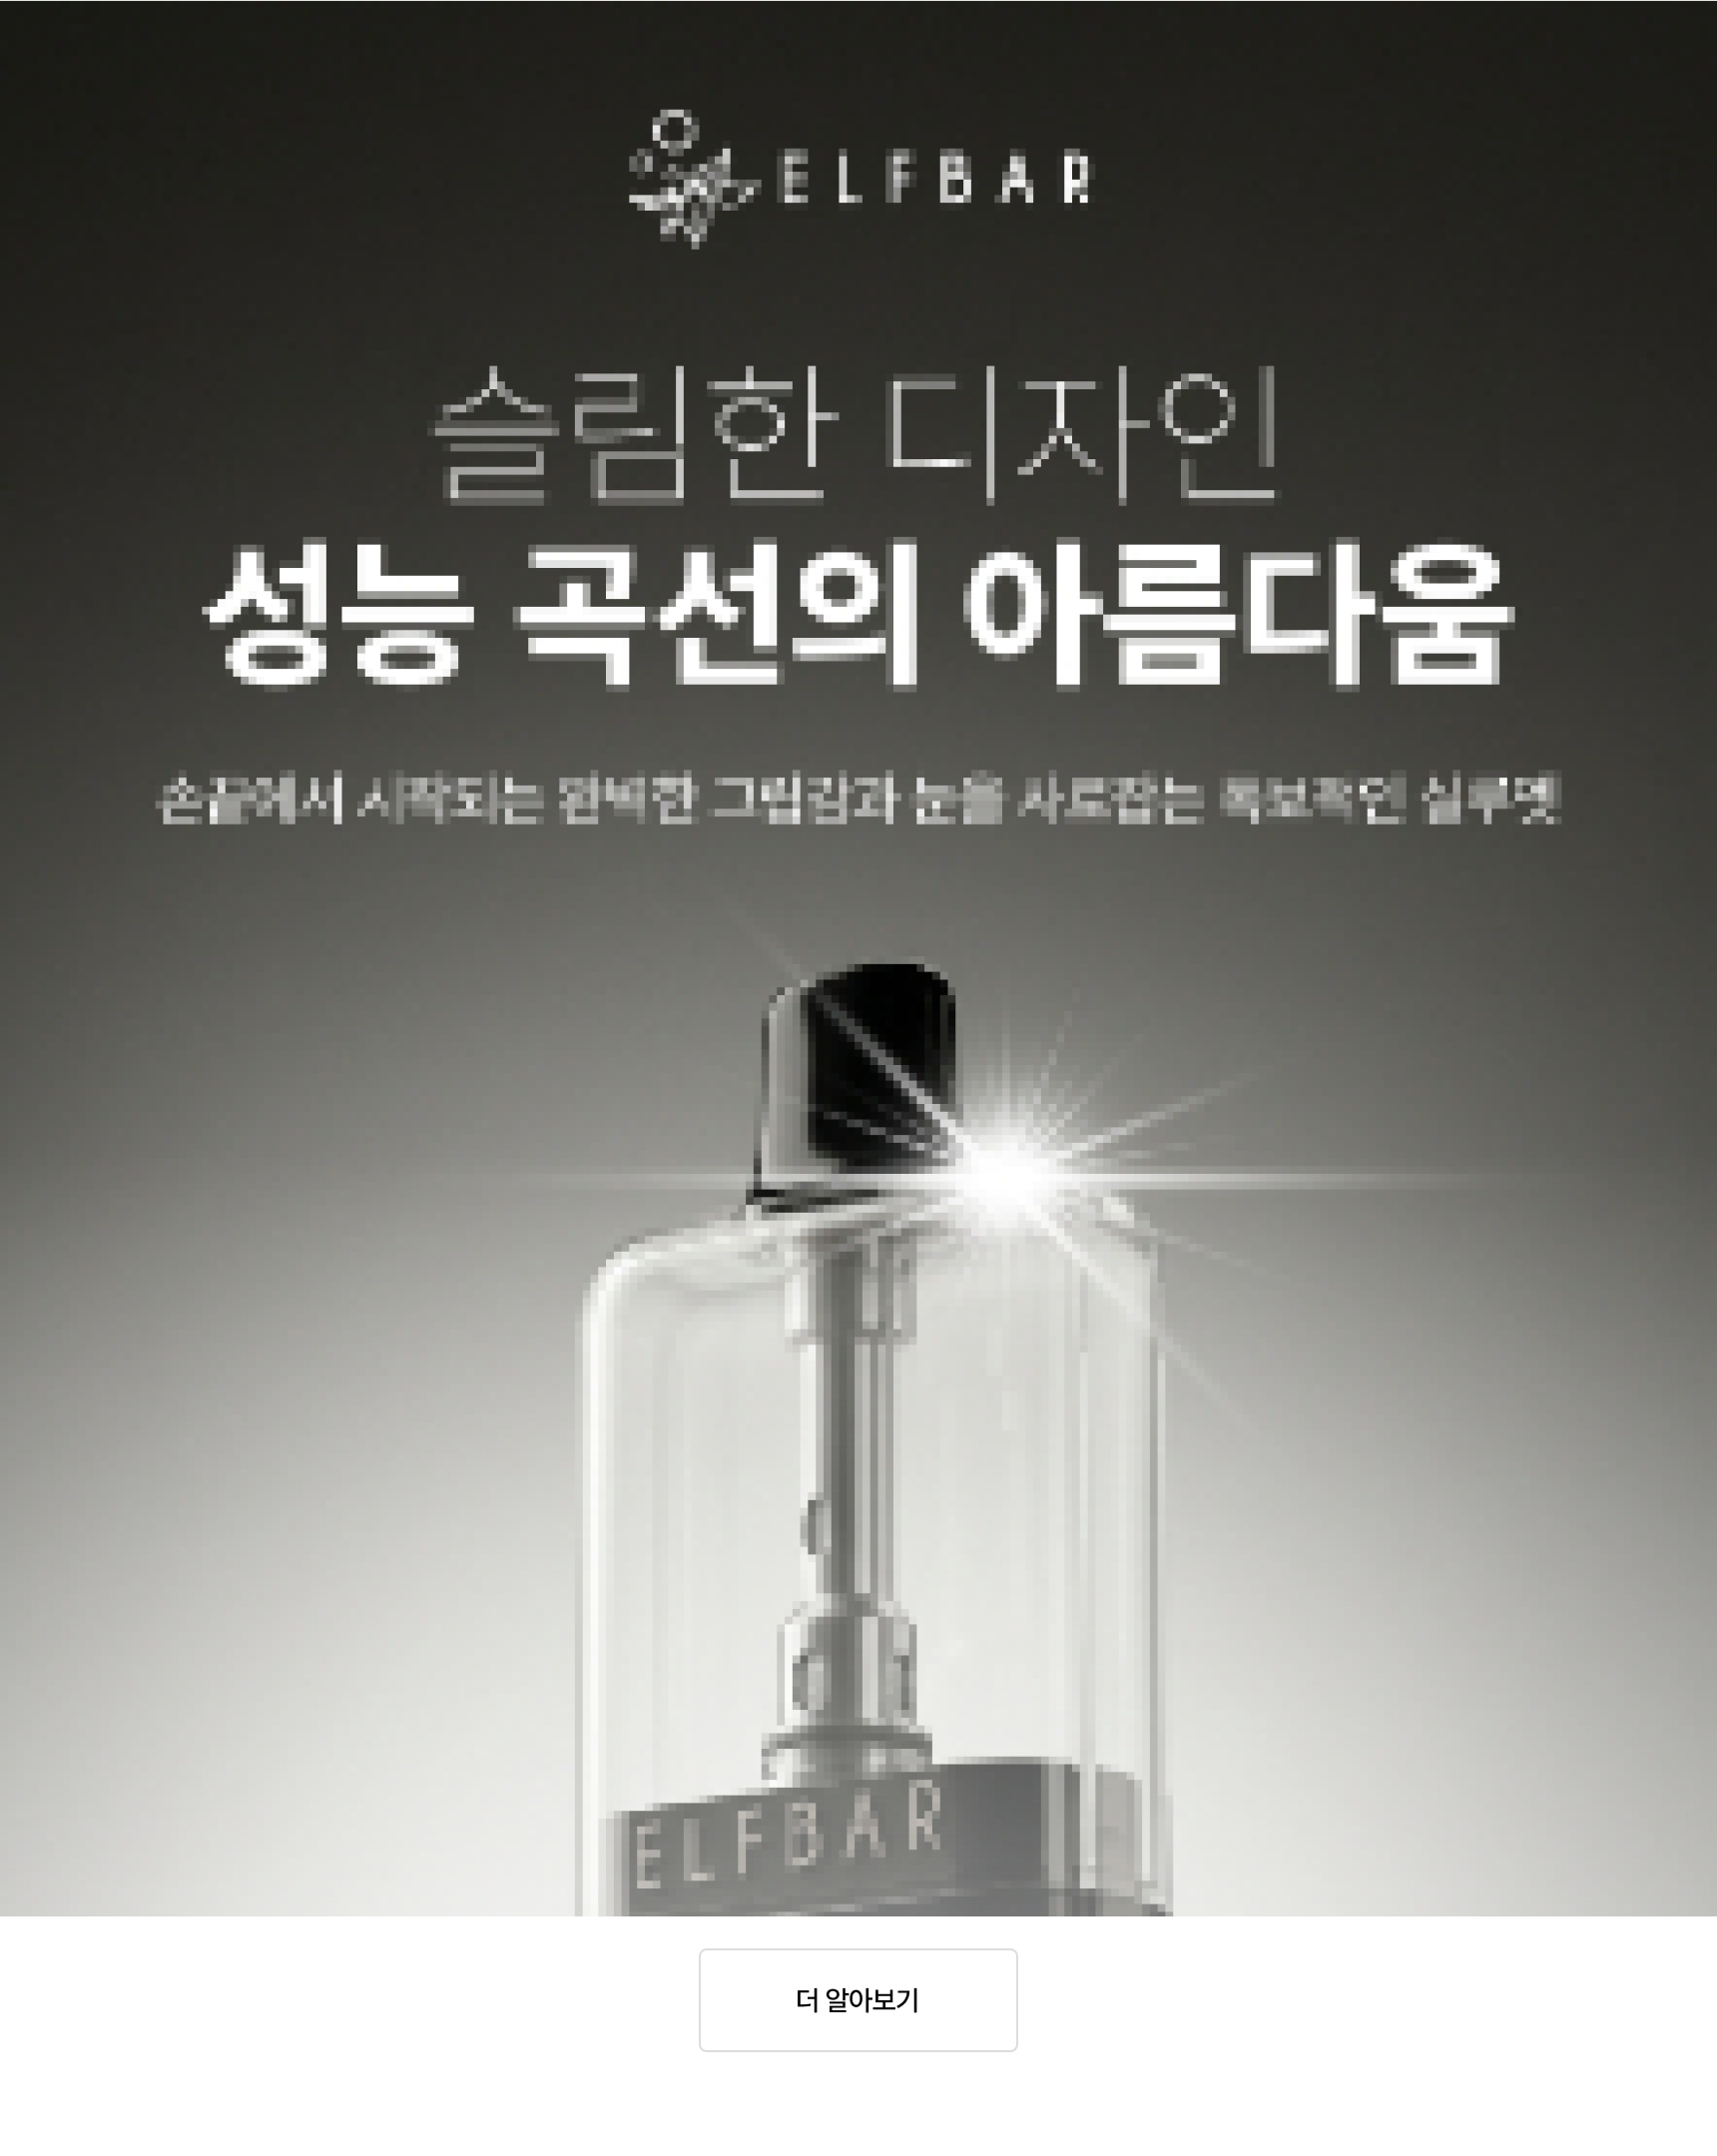
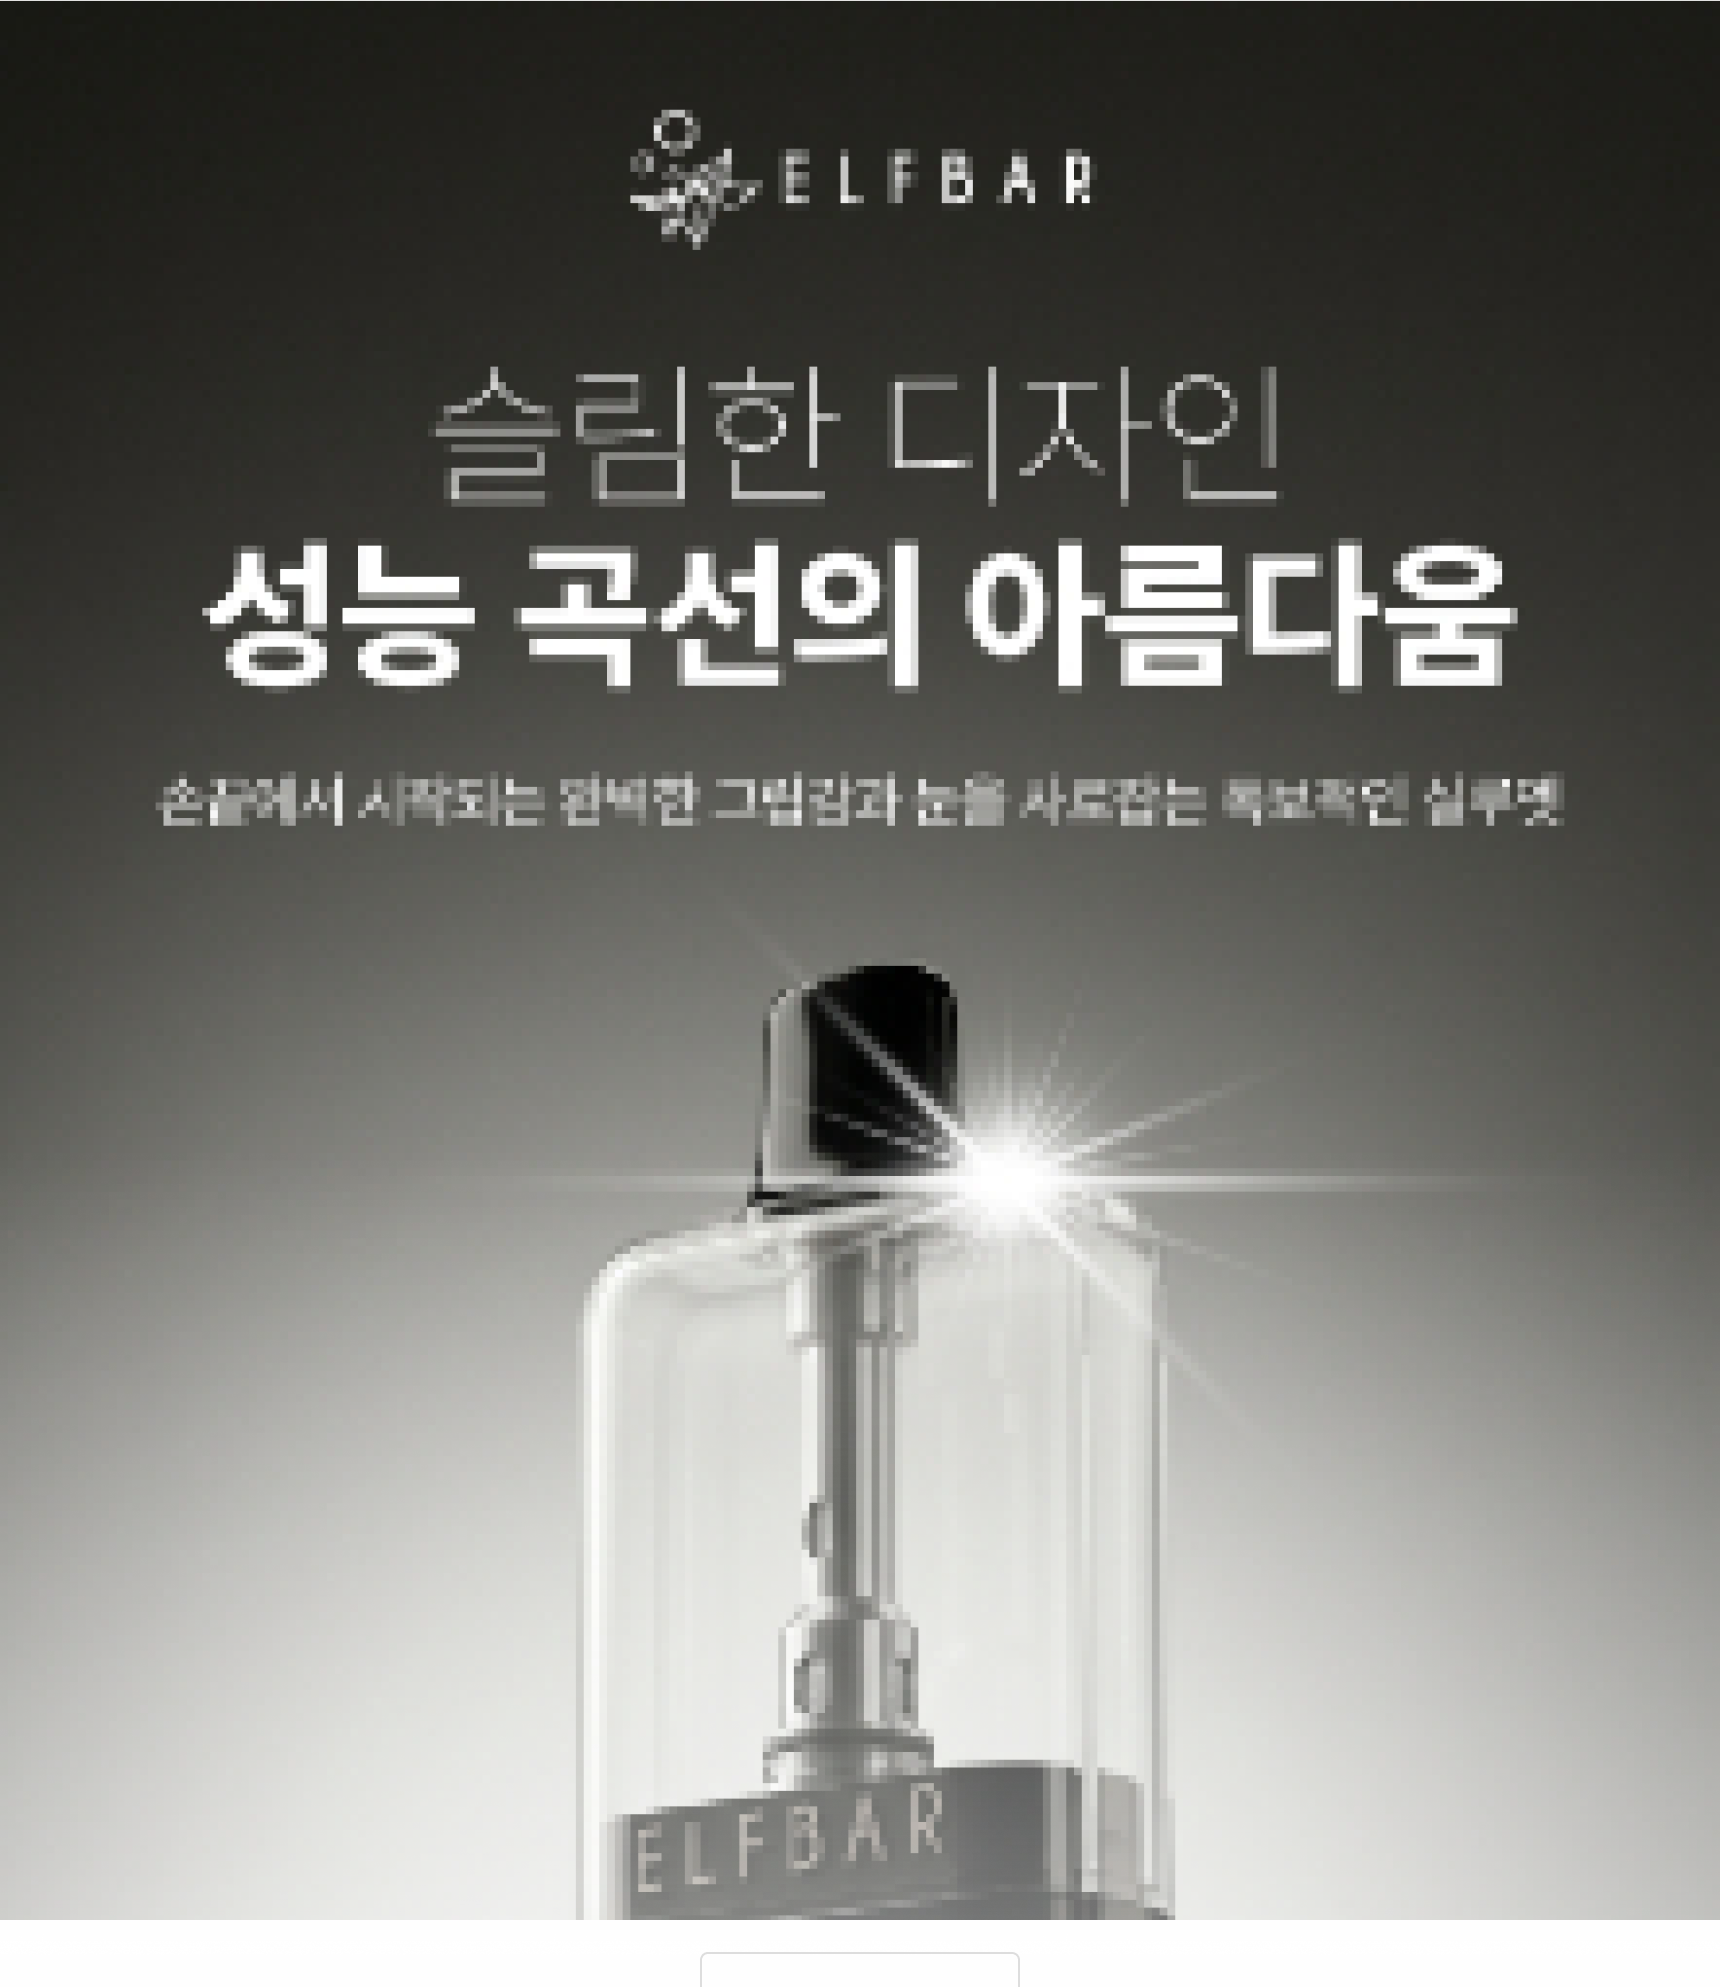
feat: 상품상세 URL 정식화 + DUKE 상세 통이미지 + 상세 탭/접기 + 랭킹 썸네일
- URL: /p/{id} → /products/{series}/{n} (백엔드 detail id-or-slug 처리, ProductDetailView 공통화,
  productHref 헬퍼 + 전 사이트 링크 교체, 구 /p/{id} 는 호환 유지)
- DUKE 상세: Figma 시안(277-12516) 통이미지 한 장 + 더알아보기 접기 (전 DUKE 상품 공통)
- 상세 탭: 제품리뷰 (N) 리뷰수 표시. 상세이미지 960 접기 + 하단 페이드 + 더알아보기 (DUKE 검정 페이드)
- 랭킹 썸네일: 높이 고정·너비 자동 (세로 긴 제품 좌우 여백 제거)
- 정리: 링크 안 되던 고아 SeriesPage 라우트 3개 + SeriesPage 컴포넌트 제거

Changed region(s): [[0.0, 0.156, 1.0, 0.9673], [0.3698, 0.0312, 0.6471, 0.1248]]

diff --git a/src/components/DetailExpand.tsx b/src/components/DetailExpand.tsx
@@ -1,0 +1,57 @@
+"use client";
+
+import { useEffect, useRef, useState } from "react";
+
+/**
+ * DetailExpand — 상세이미지 접기/펼치기 (시안: 이미지 + 하단 페이드 + "더 알아보기").
+ *   접힘: 960px 까지만 노출 + 하단 페이드. 펼침: 전체(실측 높이) + 버튼 "접기".
+ *   dark=true → 검정 배경 상세이미지(DUKE 통이미지)용 검정 페이드.
+ *   버튼 시안: 가운데 · 160 · padding 16 · r4 · #DDD 보더 · 14/500.
+ */
+export function DetailExpand({ src, alt, dark = false }: { src: string; alt: string; dark?: boolean }) {
+    const [open, setOpen] = useState(false);
+    const [fullH, setFullH] = useState(0);
+    const innerRef = useRef<HTMLDivElement>(null);
+
+    // 이미지 로드/리사이즈에 따라 전체 높이 실측 → 펼칠 때 정확한 max-height 애니메이션.
+    useEffect(() => {
+        const el = innerRef.current;
+        if (!el) return;
+        const measure = () => setFullH(el.scrollHeight);
+        measure();
+        const ro = new ResizeObserver(measure);
+        ro.observe(el);
+        return () => ro.disconnect();
+    }, []);
+
+    const COLLAPSED = 960;
+
+    return (
+        <div className="mx-auto max-w-[860px]">
+            <div
+                className="relative overflow-hidden rounded-[16px] transition-[max-height] duration-500 ease-in-out"
+                style={{ maxHeight: open ? (fullH || 99999) : COLLAPSED }}
+            >
+                <div ref={innerRef}>
+                    {/* eslint-disable-next-line @next/next/no-img-element */}
+                    <img src={src} alt={alt} className="block h-auto w-full" />
+                </div>
+                {/* 접힘 시 하단 페이드 (시안 흰→투명 / DUKE 검정 이미지는 검정 페이드) */}
+                {!open && (
+                    <div className={`pointer-events-none absolute inset-x-0 bottom-0 h-48 bg-gradient-to-t to-transparent ${dark ? "from-black via-black/70" : "from-white via-white/70"}`} />
+                )}
+            </div>
+
+            <div className="mt-4 flex justify-center">
+                <button
+                    type="button"
+                    onClick={() => setOpen((v) => !v)}
+                    aria-expanded={open}
+                    className="w-[160px] rounded-[4px] border border-[#DDDDDD] bg-white p-4 text-center text-[14px] font-medium leading-5 text-[#000] transition hover:bg-[#F6F7FB]"
+                >
+                    {open ? "접기" : "더 알아보기"}
+                </button>
+            </div>
+        </div>
+    );
+}

diff --git a/src/app/p/[id]/page.tsx b/src/app/p/[id]/page.tsx
@@ -4,6 +4,8 @@ import { ProductReviews } from "@/components/ProductReviews";
 import { ProductGallery } from "@/components/ProductGallery";
 import { ProductQna } from "@/components/ProductQna";
 import { DetailTabs } from "@/components/DetailTabs";
+import { DetailExpand } from "@/components/DetailExpand";
+import { DukeLanding } from "@/components/DukeLanding";
 import { ProductBuyBox } from "@/components/ProductBuyBox";
 import type { Page, ProductDetail, ProductSummary } from "@/types/api";
 import { displayPrice, formatPrice } from "@/lib/format";
@@ -11,24 +13,25 @@ import { notFound } from "next/navigation";
 
 type Params = Promise<{ id: string }>;
 
-export default async function ProductDetailPage({ params }: { params: Params }) {
-    const { id } = await params;
-
+// 공통 상세 뷰 — id 또는 slug 로 렌더 (백엔드가 id-or-slug 지원). /p/{id} 와 /product/{series}/{n} 양쪽에서 사용.
+export async function ProductDetailView({ idOrSlug }: { idOrSlug: string }) {
     let product: ProductDetail;
     try {
-        product = await api<ProductDetail>(`/api/v1/public/products/${id}`, { cache: "no-store" });
+        product = await api<ProductDetail>(`/api/v1/public/products/${idOrSlug}`, { cache: "no-store" });
     } catch (e) {
         if (e instanceof ApiError && e.status === 404) notFound();
         throw e;
     }
 
     const related = await safeFetch<Page<ProductSummary>>(
-        `/api/v1/public/products/${id}/related?size=8`,
+        `/api/v1/public/products/${product.id}/related?size=8`,
         { content: [], totalElements: 0, totalPages: 0, number: 0, size: 8, first: true, last: true, empty: true }
     );
 
     // 다른맛 드롭다운 — 같은 시리즈 형제 맛 (slug prefix '<series>-flavor-N')
     const seriesKey = ((product as { slug?: string }).slug ?? "").replace(/-flavor-\d+$/, "");
+    // DUKE 시리즈는 전용 풀 랜딩(시안 277-12516)을 상세정보로 노출
+    const isDuke = seriesKey === "duke";
     const siblingsData = seriesKey
         ? await safeFetch<Page<ProductSummary>>(
             `/api/v1/public/products?series=${encodeURIComponent(seriesKey)}&size=100`,
@@ -41,7 +44,7 @@ export default async function ProductDetailPage({ params }: { params: Params }) 
 
     type PromoBadge = { id: number; name: string; buyQuantity: number; getQuantity: number; label: string };
     const promos = await safeFetch<PromoBadge[]>(
-        `/api/v1/public/products/${id}/promotions`,
+        `/api/v1/public/products/${product.id}/promotions`,
         []
     );
 
@@ -144,24 +147,14 @@ export default async function ProductDetailPage({ params }: { params: Params }) 
             {/* ===== 이 제품도 같이 구매하면 좋아요! — 시안 14:3437 (Best Item + 화살표 캐러셀) ===== */}
             <RelatedCarousel items={related.content} />
 
-            {/* ===== 탭 ===== */}
-            <DetailTabs />
+            {/* ===== 탭 (상세정보 / 상품구매안내 / 제품리뷰(N) / Q&A) ===== */}
+            <DetailTabs reviewCount={product.reviewCount} />
 
-            {/* ===== 상세 설명 (큰 라이프스타일 이미지 + 텍스트) ===== */}
-            <section id="info" className="mx-auto max-w-[1920px] px-4 xl:px-[170px] mt-16 md:mt-[100px]">
-                <h2 className="text-[26px] md:text-[36px] font-bold leading-tight mb-8 text-[#000]">상세 정보</h2>
-                {/* 성능곡선 상세 이미지 (시안 14:3533) — 중앙 860 */}
-                <div className="mx-auto max-w-[860px]">
-                    {/* eslint-disable-next-line @next/next/no-img-element */}
-                    <img
-                        src="/images/detail-performance.png"
-                        alt={`${product.name} 상세`}
-                        className="w-full h-auto rounded-[16px]"
-                    />
-                </div>
-                {product.description && (
-                    <p className="mt-6 text-center text-sm text-[var(--color-fg-muted)] whitespace-pre-line leading-relaxed">{product.description}</p>
-                )}
+            {/* ===== 상세이미지 (탭 바로 아래, gap 32) — DUKE 통이미지 / 그 외 기본, 둘 다 접기+더알아보기 ===== */}
+            <section id="info" className="mx-auto mt-8 max-w-[1920px] px-4 xl:px-[170px]">
+                {isDuke
+                    ? <DukeLanding />
+                    : <DetailExpand src="/images/detail-performance.png" alt={`${product.name} 상세`} />}
             </section>
 
             {/* ===== 상품정보고시 ===== */}
@@ -224,6 +217,12 @@ export default async function ProductDetailPage({ params }: { params: Params }) 
             {/* 모바일 하단 고정 CTA 는 ProductBuyBox 가 렌더 */}
         </div>
     );
+}
+
+/* /p/{id} — id 기반 라우트(구 URL 호환). 정식 URL 은 /product/{series}/{n}(slug). */
+export default async function ProductByIdPage({ params }: { params: Params }) {
+    const { id } = await params;
+    return <ProductDetailView idOrSlug={id} />;
 }
 
 /* ============================================================

diff --git a/src/app/page.tsx b/src/app/page.tsx
@@ -6,7 +6,7 @@ import { ProductCard } from "@/components/ProductCard";
 import { FeaturedCarousel } from "@/components/FeaturedCarousel";
 import { CarouselShell } from "@/components/CarouselShell";
 import { GatedMedia } from "@/components/GatedMedia";
-import { formatDate, formatPrice } from "@/lib/format";
+import { formatDate, formatPrice, productHref } from "@/lib/format";
 import type { Banner, Category, Page, ProductSummary } from "@/types/api";
 import Link from "next/link";
 
@@ -261,14 +261,14 @@ function ProductGrid({ items }: { items: ProductSummary[] }) {
  * ============================================================ */
 type RankSeries = {
     label: string; tagline: string; banner: string; prefix: string;
-    imgW: number; imgH: number; price: number;
+    price: number;
     fallback: { name: string; desc: string }[];
 };
 const RANK_SERIES: RankSeries[] = [
     {
         label: "아이스킹 프로", tagline: "내 마음대로 즐기는 시원함",
         banner: "/images/rank-1-photo.png", prefix: "iceking-pro-flavor-",
-        imgW: 100, imgH: 120, price: 30000,
+        price: 30000,
         fallback: [
             { name: "Lemon Lime", desc: "입안 가득 퍼지는 레몬과 라임의 상큼하고 깔끔한 리프레시" },
             { name: "Starwbetty Kiwi", desc: "새콤달콤한 딸기와 신선한 키위가 어우러진 조화로운 과일 향" },
@@ -278,7 +278,7 @@ const RANK_SERIES: RankSeries[] = [
     {
         label: "듀크", tagline: "뛰어난 성능 곡선의 아름다움",
         banner: "/images/rank-2-photo.png", prefix: "duke-flavor-",
-        imgW: 120, imgH: 120, price: 25000,
+        price: 25000,
         fallback: [
             { name: "Peach Ice", desc: "잘 익은 복숭아의 달콤함과 시원한 멘솔의 완벽한 조화" },
             { name: "Shine Muscat", desc: "입안 가득 싱그럽게 터지는 고급스러운 샤인머스캣 청량감" },
@@ -288,7 +288,7 @@ const RANK_SERIES: RankSeries[] = [
     {
         label: "조인원 킷", tagline: "그 끝에 머무는 곡선의 완결성",
         banner: "/images/rank-3-photo.png", prefix: "joinwon-kit-flavor-",
-        imgW: 120, imgH: 120, price: 25000,
+        price: 25000,
         fallback: [
             { name: "Blue Razz Ice", desc: "톡 쏘는 블루 라즈베리의 짜릿함에 시원한 아이스를 더한 상쾌함" },
             { name: "Strawberry Kiwi Ice", desc: "새콤달콤 딸기와 신선한 키위가 어우러져 터지는 풍부한 과일 향" },
@@ -307,7 +307,7 @@ function SeriesRanking({ products }: { products: ProductSummary[] }) {
                     const p = real[ri];
                     if (p) {
                         const price = p.onlinePrice != null && p.onlinePrice < p.price ? p.onlinePrice : p.price;
-                        return { id: p.id, href: `/p/${p.id}`, name: p.name, desc: p.description ?? "", price, thumb: p.thumbnailUrl };
+                        return { id: p.id, href: productHref(p), name: p.name, desc: p.description ?? "", price, thumb: p.thumbnailUrl };
                     }
                     const fb = s.fallback[ri];
                     return { id: -(si * 10 + ri + 1), href: "/c/best", name: fb.name, desc: fb.desc, price: s.price, thumb: `/images/${s.prefix}${ri + 1}.png` };
@@ -324,16 +324,18 @@ function SeriesRanking({ products }: { products: ProductSummary[] }) {
                             {rows.map(r => (
                                 <li key={r.id}>
                                     <Link href={r.href} className="flex w-full items-center gap-4 rounded-[8px] bg-white pr-6 transition hover:shadow-sm">
-                                        {/* 썸네일 — 시리즈별 WxH · #F6F7FB · r4 */}
-                                        <div
-                                            className="flex flex-shrink-0 items-center justify-center overflow-hidden rounded-[4px] bg-[#F6F7FB]"
-                                            style={{ width: s.imgW, height: s.imgH }}
-                                        >
-                                            {r.thumb && (
-                                                /* eslint-disable-next-line @next/next/no-img-element */
-                                                <img src={r.thumb} alt={r.name} className="max-h-full max-w-full object-contain" />
-                                            )}
-                                        </div>
+                                        {/* 썸네일 — 높이 120 고정, 너비는 이미지 원본 비율대로 자동.
+                                            세로 긴 제품도 크롭/좌우 여백 없이 꽉 차고, 다른 비율 제품으로 바뀌어도 동적 대응. */}
+                                        {r.thumb ? (
+                                            /* eslint-disable-next-line @next/next/no-img-element */
+                                            <img
+                                                src={r.thumb}
+                                                alt={r.name}
+                                                className="block h-[120px] w-auto flex-shrink-0 rounded-[4px] bg-[#F6F7FB] object-contain"
+                                            />
+                                        ) : (
+                                            <div className="h-[120px] w-[100px] flex-shrink-0 rounded-[4px] bg-[#F6F7FB]" />
+                                        )}
                                         {/* 텍스트 — width 177, gap 8 */}
                                         <div className="flex w-[177px] flex-col gap-2">
                                             <div className="flex flex-col gap-1">

diff --git a/src/app/products/[series]/[n]/page.tsx b/src/app/products/[series]/[n]/page.tsx
@@ -1,0 +1,10 @@
+import { ProductDetailView } from "@/app/p/[id]/page";
+
+// 정식 상품 상세 URL — /products/{series}/{n} → slug "{series}-flavor-{n}" 으로 조회.
+// (백엔드 detail 이 id-or-slug 지원) 구 /p/{id} 도 호환 유지.
+type Params = Promise<{ series: string; n: string }>;
+
+export default async function ProductBySeriesPage({ params }: { params: Params }) {
+    const { series, n } = await params;
+    return <ProductDetailView idOrSlug={`${series}-flavor-${n}`} />;
+}

diff --git a/src/components/DukeLanding.tsx b/src/components/DukeLanding.tsx
@@ -1,0 +1,10 @@
+import { DetailExpand } from "@/components/DetailExpand";
+
+/* ============================================================
+ * DukeLanding — ELFBAR DUKE 상세 (시안 277-12516).
+ *   Figma 디자인 통이미지 한 장(duke-detail-full.jpg)을 "더 알아보기" 접기/펼치기로 노출.
+ *   모든 DUKE 상품(/products/duke/{n}) 공통. 검정 배경이라 dark 페이드.
+ * ============================================================ */
+export function DukeLanding() {
+    return <DetailExpand src="/images/duke-detail-full.jpg" alt="ELFBAR DUKE 시그니처 상세" dark />;
+}

diff --git a/src/lib/format.ts b/src/lib/format.ts
@@ -10,6 +10,15 @@ export function displayPrice(p: { price: number; onlinePrice?: number | null }):
     return p.onlinePrice != null ? p.onlinePrice : p.price;
 }
 
+/**
+ * 상품 상세 URL — flavor 상품은 /products/{series}/{n}(정식·SEO), 슬러그 없거나 그 외 패턴은 /p/{id}(호환).
+ * 예: slug "duke-flavor-19" → /products/duke/19
+ */
+export function productHref(p: { id: number; slug?: string | null }): string {
+    const m = (p.slug ?? "").match(/^(.+)-flavor-(\d+)$/);
+    return m ? `/products/${m[1]}/${m[2]}` : `/p/${p.id}`;
+}
+
 export function formatDate(iso: string | null | undefined): string {
     if (!iso) return "";
     const d = new Date(iso);

diff --git a/src/app/mypage/wishlist/page.tsx b/src/app/mypage/wishlist/page.tsx
@@ -6,7 +6,7 @@ import { useRouter } from "next/navigation";
 import { api } from "@/lib/api";
 import { useAuth } from "@/lib/auth";
 import { MyPageSideNav } from "@/components/mypage/SideNav";
-import { formatPrice } from "@/lib/format";
+import { formatPrice, productHref } from "@/lib/format";
 import type { Page, ProductSummary } from "@/types/api";
 
 /**
@@ -241,7 +241,7 @@ export default function WishlistPage() {
                                                 <CheckBox checked={selected.has(p.id)} />
                                             </button>
                                             <Link
-                                                href={`/p/${p.id}`}
+                                                href={productHref(p)}
                                                 className="w-[90px] h-[108px] rounded-[4px] overflow-hidden bg-[#F6F7FB] shrink-0"
                                             >
                                                 {p.thumbnailUrl && (
@@ -255,7 +255,7 @@ export default function WishlistPage() {
                                             </Link>
                                             <div className="flex flex-col gap-1 min-w-0">
                                                 <Link
-                                                    href={`/p/${p.id}`}
+                                                    href={productHref(p)}
                                                     className="text-[16px] font-medium text-[#000] line-clamp-1 hover:underline"
                                                 >
                                                     {p.name}

diff --git a/src/app/sitemap.ts b/src/app/sitemap.ts
@@ -1,9 +1,10 @@
 import type { MetadataRoute } from "next";
 import { api } from "@/lib/api";
+import { productHref } from "@/lib/format";
 
 const SITE_URL = process.env.NEXT_PUBLIC_SITE_URL ?? "https://elfbarlounge.co.kr";
 
-type ProductSummary = { id: number; updatedAt?: string };
+type ProductSummary = { id: number; slug?: string; updatedAt?: string };
 type Page<T> = { content: T[]; totalPages: number; number: number };
 
 export default async function sitemap(): Promise<MetadataRoute.Sitemap> {
@@ -27,7 +28,7 @@ export default async function sitemap(): Promise<MetadataRoute.Sitemap> {
             const res = await api<Page<ProductSummary>>(`/api/v1/public/products?size=60&page=${page}`, { cache: "no-store" });
             res.content.forEach(p => {
                 productEntries.push({
-                    url: `${SITE_URL}/p/${p.id}`,
+                    url: `${SITE_URL}${productHref(p)}`,
                     lastModified: p.updatedAt ? new Date(p.updatedAt) : now,
                     priority: 0.6,
                     changeFrequency: "weekly",

diff --git a/src/components/DetailTabs.tsx b/src/components/DetailTabs.tsx
@@ -16,7 +16,7 @@ const TABS = [
 
 type TabId = (typeof TABS)[number]["id"];
 
-export function DetailTabs() {
+export function DetailTabs({ reviewCount }: { reviewCount?: number }) {
     const [active, setActive] = useState<TabId>("info");
 
     // 스크롤 위치에 따른 active 자동 변경
@@ -53,6 +53,7 @@ export function DetailTabs() {
             <div className="flex rounded-[8px] bg-[#F6F7FB] p-2">
                 {TABS.map(t => {
                     const isActive = t.id === active;
+                    const label = t.id === "reviews" && reviewCount != null ? `제품리뷰 (${reviewCount})` : t.label;
                     return (
                         <a
                             key={t.id}
@@ -64,7 +65,7 @@ export function DetailTabs() {
                                     : "font-normal text-[#999999] hover:text-[#000]"
                             }`}
                         >
-                            {t.label}
+                            {label}
                         </a>
                     );
                 })}

diff --git a/src/components/FeaturedCarousel.tsx b/src/components/FeaturedCarousel.tsx
@@ -3,7 +3,7 @@
 import Link from "next/link";
 import { useRef } from "react";
 import type { ProductSummary } from "@/types/api";
-import { displayPrice, formatPrice } from "@/lib/format";
+import { displayPrice, formatPrice, productHref } from "@/lib/format";
 import { hoverImageUrl, safeImageUrl } from "@/lib/url";
 
 /**
@@ -103,7 +103,7 @@ function FeaturedCard({ p }: { p: ProductSummary }) {
     const isSoldOut = p.status === "SOLD_OUT" || p.soldOut === true;
 
     return (
-        <Link href={`/p/${p.id}`} className="group block">
+        <Link href={productHref(p)} className="group block">
             {/* 이미지 374×448 r12 + 좌상단 뱃지 */}
             <div className="relative aspect-[374/448] rounded-[12px] overflow-hidden bg-[var(--color-bg-subtle)]">
                 {img ? (

diff --git a/src/components/ProductCard.tsx b/src/components/ProductCard.tsx
@@ -1,7 +1,7 @@
 "use client";
 import Link from "next/link";
 import type { ProductSummary } from "@/types/api";
-import { displayPrice, formatPrice } from "@/lib/format";
+import { displayPrice, formatPrice, productHref } from "@/lib/format";
 import { hoverImageUrl, safeImageUrl } from "@/lib/url";
 import { useGated, useAdultGate, GateOverlay } from "@/components/AdultGate";
 
@@ -23,7 +23,7 @@ export function ProductCard({ p }: { p: ProductSummary }) {
 
     return (
         <Link
-            href={`/p/${p.id}`}
+            href={productHref(p)}
             onClick={(e) => { if (gated) { e.preventDefault(); openGate(); } }}
             className="group block"
         >